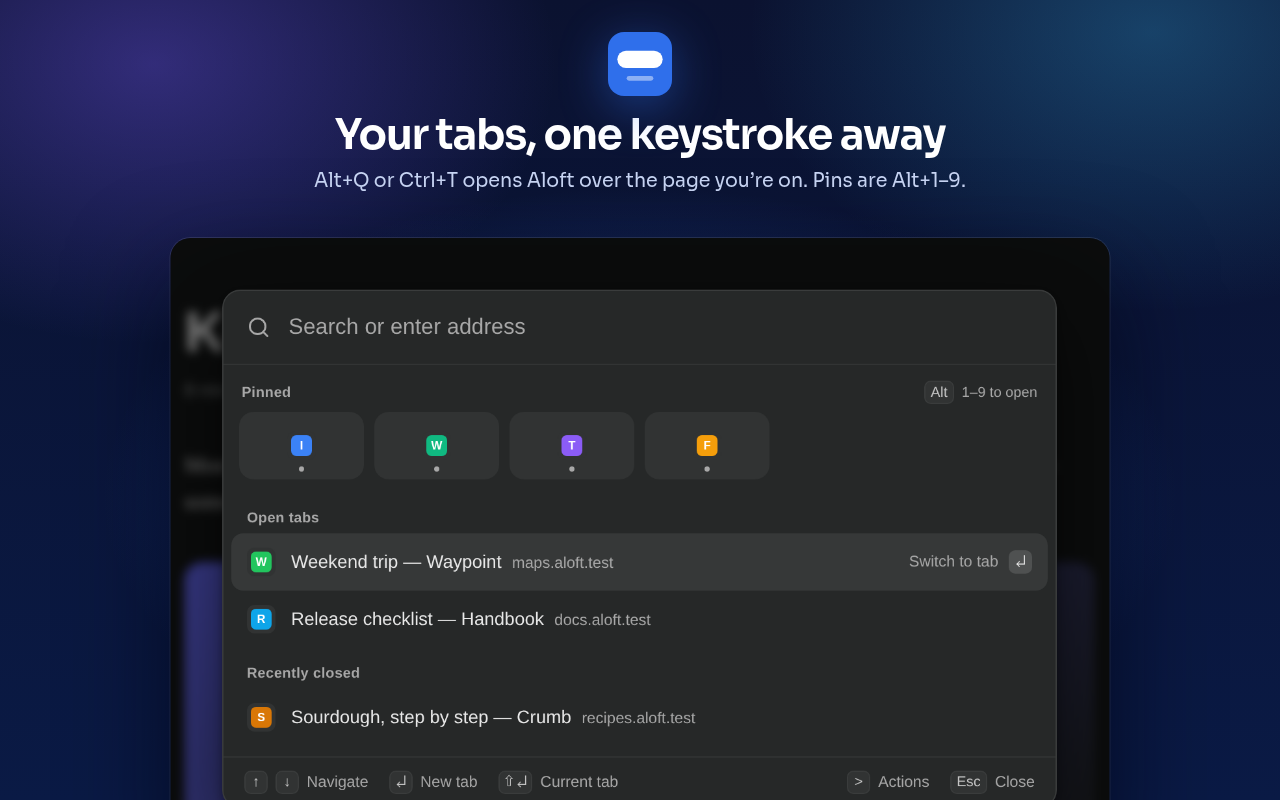
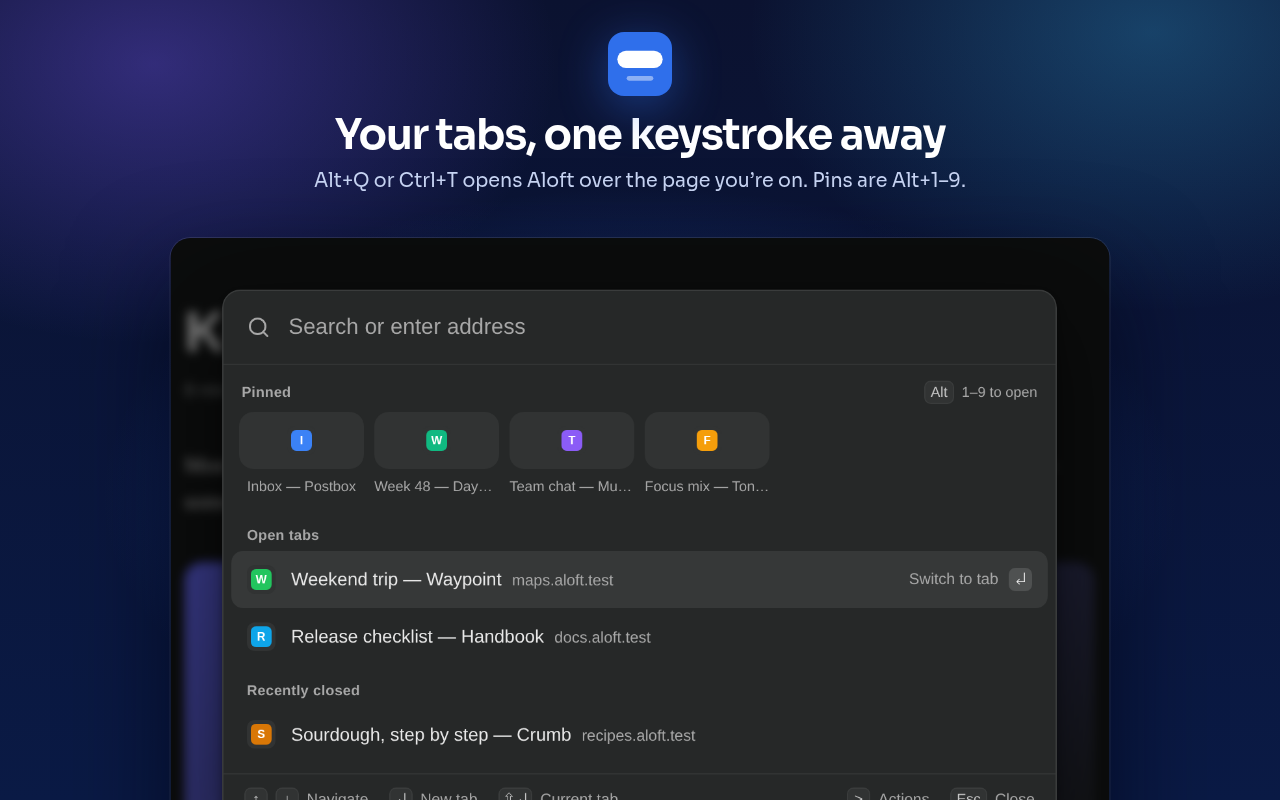
feat(pinned): label pinned tiles and mark only the ones that are asleep (#22)

diff --git a/src/ui/pinned-row/pinned-row.tsx b/src/ui/pinned-row/pinned-row.tsx
@@ -3,6 +3,7 @@ import { i18n } from '#i18n'
 import { MAX_SHORTCUTS } from '../../core/pinned'
 import { type TabEntry, tileLetter } from '../../core/results'
 import { Favicon } from '../favicon/favicon'
+import { Icon } from '../icon/icon'
 import { Kbd } from '../kbd/kbd'
 import { Keyed } from '../keyed/keyed'
 import styles from './pinned-row.module.css'
@@ -36,11 +37,13 @@ export function PinnedRow(props: PinnedRowProps) {
             return (
               <button
                 type="button"
-                class={styles.tile}
-                data-loaded={pin().loaded || undefined}
+                class={styles.pin}
+                data-asleep={!pin().loaded || undefined}
                 aria-label={pin().title}
                 aria-keyshortcuts={slot() ? `Alt+${slot()}` : undefined}
-                title={pin().title}
+                // Also the accessible description, so screen readers hear that
+                // a pin is asleep.
+                title={pin().loaded ? pin().title : i18n.t('pinnedAsleepTitle', [pin().title])}
                 onClick={() => props.onOpen(pin())}
                 onContextMenu={(event) => {
                   event.preventDefault()
@@ -53,21 +56,30 @@ export function PinnedRow(props: PinnedRowProps) {
                   }
                 }}
               >
-                <Favicon
-                  pageUrl={pin().url}
-                  load={props.favicon}
-                  letter={tileLetter(pin().title, pin().url)}
-                />
-                <Show when={pin().loaded}>
-                  <span class={styles.loaded} aria-hidden="true" />
-                </Show>
-                <Show when={props.altHeld && slot()}>
-                  {(n) => (
-                    <span class={styles.badge} aria-hidden="true">
-                      {n()}
+                <span class={styles.tile}>
+                  <span class={styles.icon}>
+                    <Favicon
+                      pageUrl={pin().url}
+                      load={props.favicon}
+                      letter={tileLetter(pin().title, pin().url)}
+                    />
+                  </span>
+                  <Show when={!pin().loaded}>
+                    <span class={styles.asleep} data-testid="pin-asleep">
+                      <Icon name="moon" />
                     </span>
-                  )}
-                </Show>
+                  </Show>
+                  <Show when={props.altHeld && slot()}>
+                    {(n) => (
+                      <span class={styles.badge} aria-hidden="true">
+                        {n()}
+                      </span>
+                    )}
+                  </Show>
+                </span>
+                <span class={styles.name} aria-hidden="true">
+                  {pin().title}
+                </span>
               </button>
             )
           }}

diff --git a/src/ui/pinned-row/pinned-row.module.css b/src/ui/pinned-row/pinned-row.module.css
@@ -31,37 +31,68 @@
   gap: var(--al-space-3);
 }
 
+.pin {
+  display: flex;
+  flex-direction: column;
+  align-items: stretch;
+  gap: var(--al-space-2);
+  min-width: 0;
+  padding: 0;
+  border: 0;
+  background: none;
+  color: inherit;
+  font: inherit;
+  cursor: default;
+}
+
+.pin:focus-visible {
+  outline: none;
+}
+
 .tile {
   position: relative;
   display: flex;
   align-items: center;
   justify-content: center;
   height: var(--al-tile-height);
-  padding: 0;
-  border: 0;
   border-radius: var(--al-tile-radius);
   background: var(--al-keycap);
-  cursor: default;
 }
 
-.tile:hover {
+.pin:hover .tile {
   background: var(--al-selected);
 }
 
-.tile:focus-visible {
+.pin:focus-visible .tile {
   outline: 2px solid var(--al-accent);
   outline-offset: -2px;
 }
 
-.loaded {
+.icon {
+  display: flex;
+}
+
+.name {
+  overflow: hidden;
+  font-size: var(--al-font-size-xs);
+  color: var(--al-muted);
+  text-align: center;
+  text-overflow: ellipsis;
+  white-space: nowrap;
+}
+
+.pin[data-asleep] .icon,
+.pin[data-asleep] .name {
+  opacity: var(--al-asleep-opacity);
+}
+
+.asleep {
+  --al-glyph-size: var(--al-asleep-glyph);
   position: absolute;
-  bottom: var(--al-space-2);
-  left: 50%;
-  width: var(--al-dot-size);
-  height: var(--al-dot-size);
-  border-radius: 50%;
-  background: var(--al-muted);
-  transform: translateX(-50%);
+  right: var(--al-space-1);
+  bottom: var(--al-space-1);
+  display: flex;
+  color: var(--al-muted);
 }
 
 .badge {

diff --git a/tests/e2e/pinned.spec.ts b/tests/e2e/pinned.spec.ts
@@ -60,18 +60,16 @@ test('unpins from the tile menu and the row updates', async ({ context, backgrou
   expect(await isPinned(background, `${TEST_ORIGIN}/Mail`)).toBe(false)
 })
 
-test('marks only loaded pins, not sleeping ones', async ({ context, background }) => {
+test('marks only sleeping pins', async ({ context, background }) => {
   test.skip(
     !/helium/.test(process.env.ALOFT_BROWSER ?? ''),
     'tabs.discard takes down headless Chromium; checked against Helium only',
   )
   const page = await withPins(context, background, ['Mail', 'Calendar'])
   const row = palette(page).getByRole('region', { name: 'Pinned' })
-  await expect(row.getByRole('button', { name: 'Mail' })).toHaveAttribute('data-loaded', 'true')
+  await expect(row.getByRole('button', { name: 'Calendar' })).not.toHaveAttribute('data-asleep')
 
   await tabAction(background, `${TEST_ORIGIN}/Calendar`, 'discard')
-  await expect(row.getByRole('button', { name: 'Calendar' })).not.toHaveAttribute(
-    'data-loaded',
-    'true',
-  )
+  await expect(row.getByRole('button', { name: 'Calendar' })).toHaveAttribute('data-asleep', 'true')
+  await expect(row.getByRole('button', { name: 'Mail' })).not.toHaveAttribute('data-asleep')
 })

diff --git a/src/ui/palette/palette.test.tsx b/src/ui/palette/palette.test.tsx
@@ -1,4 +1,4 @@
-import { fireEvent, render, screen } from '@solidjs/testing-library'
+import { fireEvent, render, screen, within } from '@solidjs/testing-library'
 import { createSignal } from 'solid-js'
 import { describe, expect, it, vi } from 'vitest'
 import type { Section, TabEntry } from '../../core/results'
@@ -207,6 +207,19 @@ describe('Palette', () => {
         'Alt+2',
         'Alt+3',
       ])
+    })
+
+    it('labels each tile with its title and marks only sleeping pins', () => {
+      renderPalette({ pins, pinShortcuts: pins })
+      const mail = screen.getByRole('button', { name: 'Mail' })
+      const calendar = screen.getByRole('button', { name: 'Calendar' })
+      expect(mail.textContent).toContain('Mail')
+      expect(mail.hasAttribute('data-asleep')).toBe(false)
+      expect(within(mail).queryByTestId('pin-asleep')).toBeNull()
+      expect(calendar.hasAttribute('data-asleep')).toBe(true)
+      expect(within(calendar).getByTestId('pin-asleep')).toBeTruthy()
+      expect(calendar.title).toBe('pinnedAsleepTitle')
+      expect(mail.title).toBe('Mail')
     })
 
     it('shows number badges only while Alt is held', () => {

diff --git a/src/ui/tokens.css b/src/ui/tokens.css
@@ -28,8 +28,9 @@
   --al-kbd-radius: 5px;
   --al-menu-width: 200px;
   --al-menu-item-height: 32px;
-  --al-tile-height: 52px;
-  --al-dot-size: 4px;
+  --al-tile-height: 44px;
+  --al-asleep-glyph: 12px;
+  --al-asleep-opacity: 0.45;
   --al-badge-size: 16px;
   --al-button-height: 34px;
   --al-button-radius: 8px;

diff --git a/src/ui/icon/icons.ts b/src/ui/icon/icons.ts
@@ -10,6 +10,7 @@ export const ICON_NAMES = [
   'copy',
   'copy-x',
   'globe',
+  'moon',
   'pin',
   'pin-off',
   'search',
